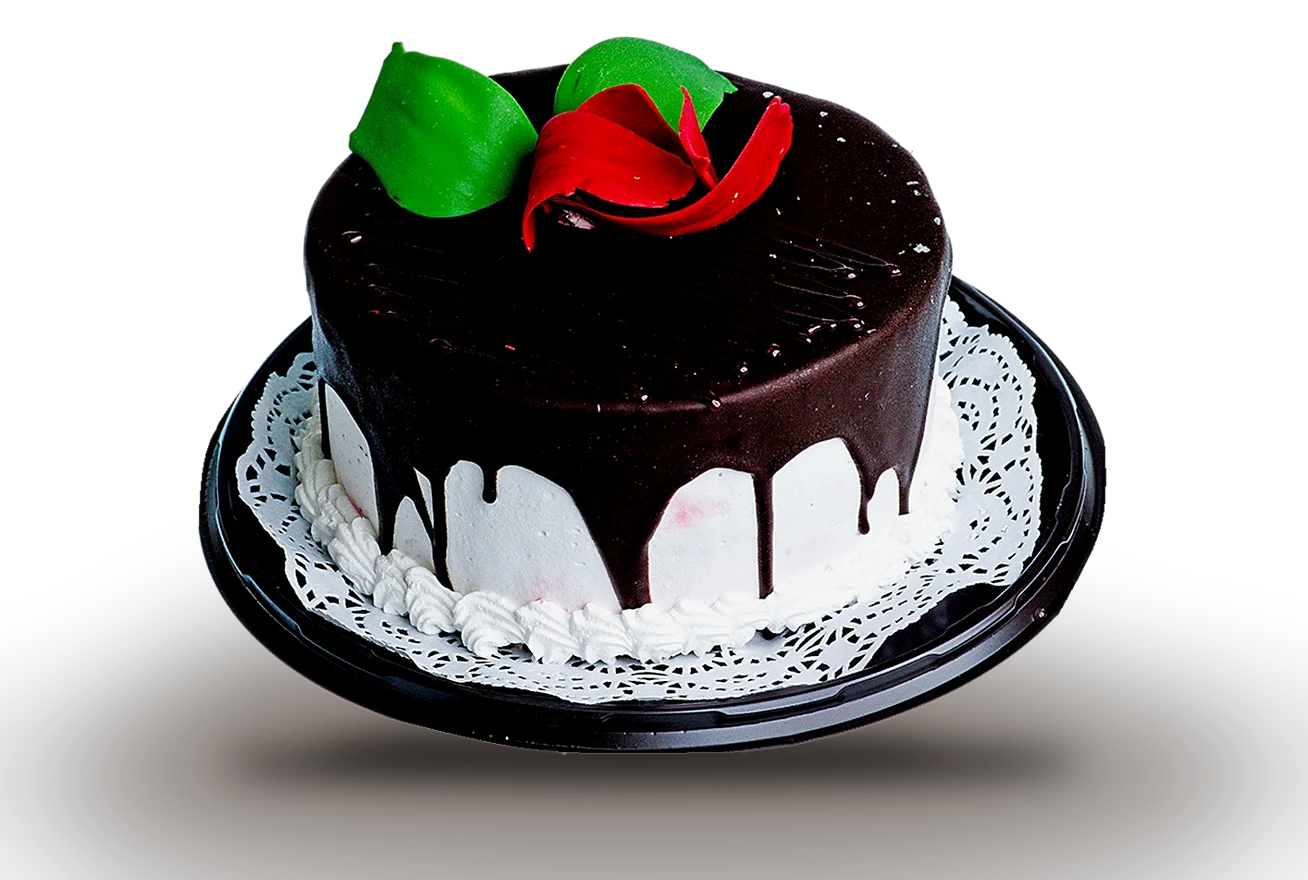
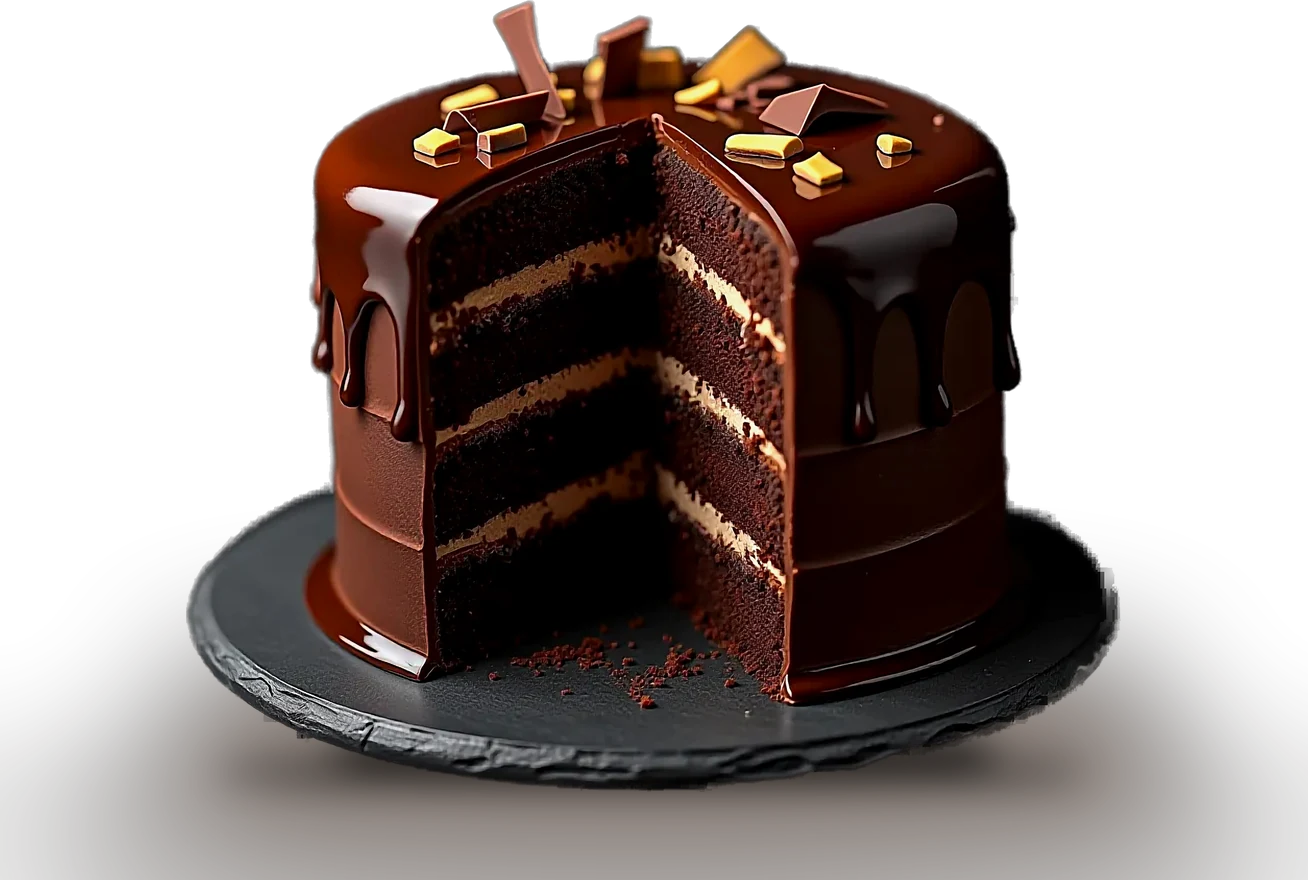
Generate the hero cake

diff --git a/index.html b/index.html
@@ -780,7 +780,7 @@ BX.setCSSList(['/bitrix/js/main/core/css/core.css','/bitrix/js/main/lazyload/dis
 																																																																	</div>
 																																							</td>
 																																	<td class="img ">
-																																						<img class="plaxy" data-src="https://vdolesov.github.io/assets/hero-cake.webp?v=1" src="https://vdolesov.github.io/assets/hero-cake.webp?v=1" alt="Торт «Шварцвальдский»" title="Торт «Шварцвальдский»" />
+																																						<img class="plaxy" data-src="https://vdolesov.github.io/assets/hero-cake.webp?v=2" src="https://vdolesov.github.io/assets/hero-cake.webp?v=2" alt="Торт «Шварцвальдский»" title="Торт «Шварцвальдский»" />
 											</td>
 																			</tr>
 															</tbody>

diff --git a/skin/hero_choc.py b/skin/hero_choc.py
@@ -11,11 +11,11 @@ BUILD = os.path.join(SITE, "frontend_mir_slad-main", "apps", "noir-classic", "bu
 OUT = os.path.join(APP, "assets")
 
 sys.path.insert(0, BUILD)
-from photos_v8 import neural_cutout
+from photos_v8 import neural_cutout, upscale
 
 BG_W, BG_H = 2400, 1060
 CAKE_W, CAKE_H = 1308, 880
-SOURCE = os.path.join(BUILD, "photos", "749.jpg")
+SOURCE = os.path.join(BUILD, "sources", "ai", "hero-cake.png")
 
 GROUND = np.array([16, 10, 8], np.float32)
 LIT = np.array([74, 46, 33], np.float32)
@@ -35,7 +35,7 @@ def backdrop():
 
 
 def cake():
-    im = neural_cutout(Image.open(SOURCE))
+    im = neural_cutout(upscale(Image.open(SOURCE).convert("RGB")), restore_inside=False)
     rgb = im.convert("RGB")
     rgb = ImageEnhance.Contrast(rgb).enhance(1.08)
     rgb = ImageEnhance.Brightness(rgb).enhance(.96)
@@ -46,7 +46,7 @@ def cake():
     rgb.putalpha(alpha)
     im = rgb
 
-    box_w, box_h = int(CAKE_W * .80), int(CAKE_H * .82)
+    box_w, box_h = int(CAKE_W * .84), int(CAKE_H * .90)
     im.thumbnail((box_w, box_h), Image.LANCZOS)
     x = (CAKE_W - im.width) // 2
     y = int(CAKE_H * .86) - im.height
@@ -68,26 +68,6 @@ def cake():
 
     canvas.alpha_composite(im, (x, max(0, y)))
     return canvas
-
-
-def about():
-    im = Image.open(os.path.join(SITE, "i1.jpg")).convert("RGB").crop((230, 330, 1920, 1440))
-    w, h = 1440, 610
-    k = max(w / im.width, h / im.height)
-    im = im.resize((round(im.width * k), round(im.height * k)), Image.LANCZOS)
-    left, top = (im.width - w) // 2, int((im.height - h) * .55)
-    im = im.crop((left, top, left + w, top + h))
-    im = ImageEnhance.Brightness(im).enhance(.72)
-    im = ImageEnhance.Contrast(im).enhance(1.08)
-    im = ImageEnhance.Color(im).enhance(.9)
-    r, g, b = im.split()
-    r = r.point(lambda v: min(255, int(v * 1.04)))
-    b = b.point(lambda v: int(v * .9))
-    im = Image.merge("RGB", (r, g, b))
-    ys, xs = np.mgrid[0:h, 0:w].astype(np.float32)
-    e = np.clip(np.hypot((xs / w - .55) / .75, (ys / h - .5) / .85), 0, 1) ** 1.4
-    mask = Image.fromarray(((1 - e * .7) * 255).astype(np.uint8), "L").filter(ImageFilter.GaussianBlur(50))
-    return Image.composite(im, ImageEnhance.Brightness(im).enhance(.25), mask)
 
 
 def preview(bg, ck):
@@ -112,11 +92,7 @@ def main():
     ck_path = os.path.join(OUT, "hero-cake.webp")
     ck.save(ck_path, "WEBP", quality=88, method=6)
 
-    ab = about()
-    ab_path = os.path.join(OUT, "about.jpg")
-    ab.save(ab_path, quality=84, optimize=True, progressive=True)
-
-    for path in (bg_path, ck_path, ab_path, preview(bg, ck)):
+    for path in (bg_path, ck_path, preview(bg, ck)):
         print(f"  {os.path.basename(path)}  {os.path.getsize(path) // 1024} KB")
 
 

diff --git a/skin/build_demo.py b/skin/build_demo.py
@@ -87,7 +87,7 @@ SECTION_PHOTOS = {
 
 BANNER = {
     "/upload/iblock/890/890366e70949176749ee46def14a193b.jpg": "/assets/hero-bg.jpg?v=5",
-    "/upload/iblock/a76/a76586772deb02b99d66c209bfda9c22.png": "/assets/hero-cake.webp?v=1",
+    "/upload/iblock/a76/a76586772deb02b99d66c209bfda9c22.png": "/assets/hero-cake.webp?v=2",
 }
 IMAGES = {
     "https://www.mirsladostey164.ru/images/contacts_image.jpg": "/assets/about.jpg?v=2",

diff --git a/skin/README.md b/skin/README.md
@@ -26,7 +26,7 @@ Near-black cocoa, caramel gold as the only accent, Prata for headings, Golos Tex
 | About block | text + video block | gold-framed band with a production photo |
 | Header | plain | sticky, plus a section navigation strip (`nav.js`) |
 | Product page | 450 px photo, narrow specs column | full-column photo, specs under the buy block |
-| Hero | stock photo | Schwarzwald cake under a light pool on cocoa |
+| Hero | stock photo | generated chocolate cake under a light pool on cocoa |
 | Section and product names | all caps | sentence case via CSS |
 | Cart | Bitrix module | demo only: client-side cart and checkout (`cart.js`) |
 
@@ -63,7 +63,7 @@ python skin/build_skin.py          # rebuild skin.css
 python skin/build_site.py          # crawl the live site and rebuild all pages
 python skin/build_site.py --stamp  # restamp skin version, photo series, hero files and copy into built pages
 python skin/build_cart_data.py     # rebuild cart data (products, sections)
-python skin/hero_choc.py           # rebuild hero-bg.jpg, hero-cake.webp, about.jpg
+python skin/hero_choc.py           # rebuild hero-bg.jpg, hero-cake.webp
 ```
 
 `build_site.py` crawls the live site by internal links (73 pages) and writes each page under its own URL. Links stay relative, template assets load from the original domain. Photo series, hero files and slide copy are set in `build_demo.py` (`SERIES`, `BANNER`, `BANNER_COPY`, `IMAGES`); `--stamp` applies them to already built pages.
@@ -82,7 +82,7 @@ The slide is two images: a wide backdrop and a product on the right.
 
 ```
 hero-bg.jpg      2400x1060   cocoa with a warm light pool on the right
-hero-cake.webp   1308x880    Schwarzwald cake, transparent WebP, light pool and shadow baked in
+hero-cake.webp   1308x880    generated chocolate cake (FLUX, `build/sources/ai/hero-cake.png`), transparent WebP, light pool and shadow baked in
 ```
 
 Upload them into the banner element that currently holds `890366e70949176749ee46def14a193b.jpg` (backdrop) and `a76586772deb02b99d66c209bfda9c22.png` (product). Light and shadow are baked into the product image because the template moves the product as the viewport changes.
